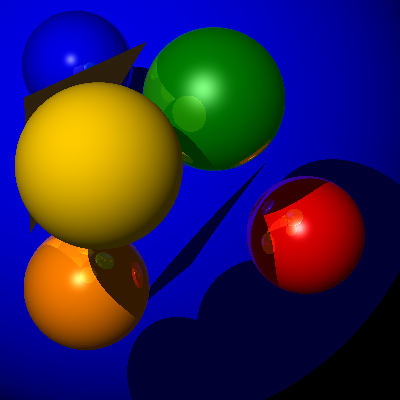
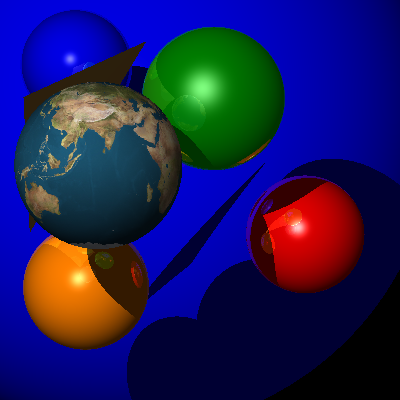
added texturing

diff --git a/Code/scene.cpp b/Code/scene.cpp
@@ -61,6 +61,7 @@ Color Scene::tracePhong(const Ray &ray, int num_reflects)
     Vector V = -ray.D;                             //the view vector
 
 
+
     Color diffuse, specular;
     Vector L,R;
 
@@ -69,7 +70,8 @@ Color Scene::tracePhong(const Ray &ray, int num_reflects)
     
 
     // compute ambient part
-    Color color = material->color * material->ka; 
+    Color matcolor = obj->getTextureColor(N);
+    Color color = matcolor * material->ka;
 
     // loop over each light to compute specular and diffuse parts     
     for(unsigned int i = 0; i<lights.size(); i++) {
@@ -86,7 +88,7 @@ Color Scene::tracePhong(const Ray &ray, int num_reflects)
         }   
 
         // compute diffuse portion of light
-        color += material->color * material->kd * lights[i]->color * MAX(0, N.dot((hit-lights[i]->position).normalized()));
+        color += matcolor * material->kd * lights[i]->color * MAX(0, N.dot((hit-lights[i]->position).normalized()));
 
         // compute specular portion of light
         if(R.dot(V) < 0) {

diff --git a/Code/sphere.cpp b/Code/sphere.cpp
@@ -17,6 +17,8 @@
 #include "sphere.h"
 #include <stdio.h>
 #include <iostream>
+#include "material.h"
+#include "triple.h"
 #include <math.h>
 
 /************************** Sphere **********************************/
@@ -52,4 +54,18 @@ Hit Sphere::intersect(const Ray &ray)
     // Compute surface normal, which when normalized is equal to the radius vector to the point of intersection
     N = (position-ray.at(t)).normalized();
     return Hit(t,N);
+}
+
+Color Sphere::getTextureColor(const Vector N)
+{
+    Color color;
+    if (material->texture != NULL) {
+        Vector d = N * -1.0;
+        double u = 0.5 + atan2(d.z, d.x) / (2*M_PI);
+        double v = 0.5 - asin(d.y) / M_PI;
+        color = material->texture->colorAt(u, v);
+    } else {
+        color = material->color;
+    }
+    return color;
 }

diff --git a/Code/raytracer.cpp b/Code/raytracer.cpp
@@ -18,11 +18,11 @@
 #include "sphere.h"
 #include "material.h"
 #include "light.h"
-#include "image.h"
 #include "yaml/yaml.h"
 #include <ctype.h>
 #include <fstream>
 #include <assert.h>
+#include "image.h"
 
 
 // Functions to ease reading from YAML input
@@ -116,6 +116,12 @@ Material* Raytracer::parseMaterial(const YAML::Node& node)
     node["kd"] >> m->kd;
     node["ks"] >> m->ks;
     node["n"] >> m->n;
+    if (node.FindValue("texture")) {
+        std::string buf; 
+        node["texture"] >> buf;
+        m->texture = new Image(buf.c_str());
+    }
+
     return m;
 }
 

diff --git a/Code/triangle.cpp b/Code/triangle.cpp
@@ -5,6 +5,7 @@
 
 #include "triangle.h"
 #include "plane.h"
+#include "material.h"
 #include <stdio.h>
 #include <iostream>
 #include <math.h>
@@ -91,4 +92,9 @@ Hit Triangle::intersect(const Ray &ray)
 
     // ray is on the inner side of all 3 edges of the triangle so we have a hit
     return Hit(t, -n.normalized());
+}
+
+Color Triangle::getTextureColor(const Vector N)
+{
+    return material->color;
 }

diff --git a/Code/plane.cpp b/Code/plane.cpp
@@ -17,6 +17,8 @@
 #include <stdio.h>
 #include <iostream>
 #include <math.h>
+#include "triple.h"
+#include "material.h"
 
 #include "plane.h"
 
@@ -44,4 +46,9 @@ Hit Plane::intersect(const Ray &ray)
 
     // return the time of intersection and the normal used to define the plane 
     return Hit(t,normal);
+}
+
+Color Plane::getTextureColor(const Vector N)
+{
+    return material->color;
 }

diff --git a/Code/material.h b/Code/material.h
@@ -17,6 +17,7 @@
 
 #include <iostream>
 #include "triple.h"
+#include "image.h"
 
 class Material
 {
@@ -26,6 +27,8 @@ public:
     double kd;          // diffuse intensity
     double ks;          // specular intensity 
     double n;           // exponent for specular highlight size
+
+    Image* texture = NULL;     // might need destructor
 
     Material() { }
 };

diff --git a/Code/plane.h b/Code/plane.h
@@ -21,6 +21,8 @@ public:
     Plane(Point position, Point normal) : position(position), normal(normal) { }
 
     virtual Hit intersect(const Ray &ray);
+    virtual Color getTextureColor(const Vector N);
+
 
     const Point position;
     const Point normal;

diff --git a/Code/sphere.h b/Code/sphere.h
@@ -25,6 +25,7 @@ public:
     Sphere(Point position,double r) : position(position), r(r) { }
 
     virtual Hit intersect(const Ray &ray);
+    virtual Color getTextureColor(const Vector N);
 
     const Point position;
     const double r;

diff --git a/Code/triangle.h b/Code/triangle.h
@@ -14,6 +14,7 @@ public:
     Triangle(Point P_1, Point P_2, Point P_3) : p1(P_1), p2(P_2), p3(P_3) { }
 
     virtual Hit intersect(const Ray &ray);
+    virtual Color getTextureColor(const Vector N);
 
     const Point p1, p2, p3;
 };

diff --git a/Code/object.h b/Code/object.h
@@ -30,6 +30,7 @@ public:
     virtual ~Object() { }
 
     virtual Hit intersect(const Ray &ray) = 0;
+    virtual Color getTextureColor(const Vector N) = 0; 
 };
 
 #endif /* end of include guard: OBJECT_H_AXKLE0OF */
